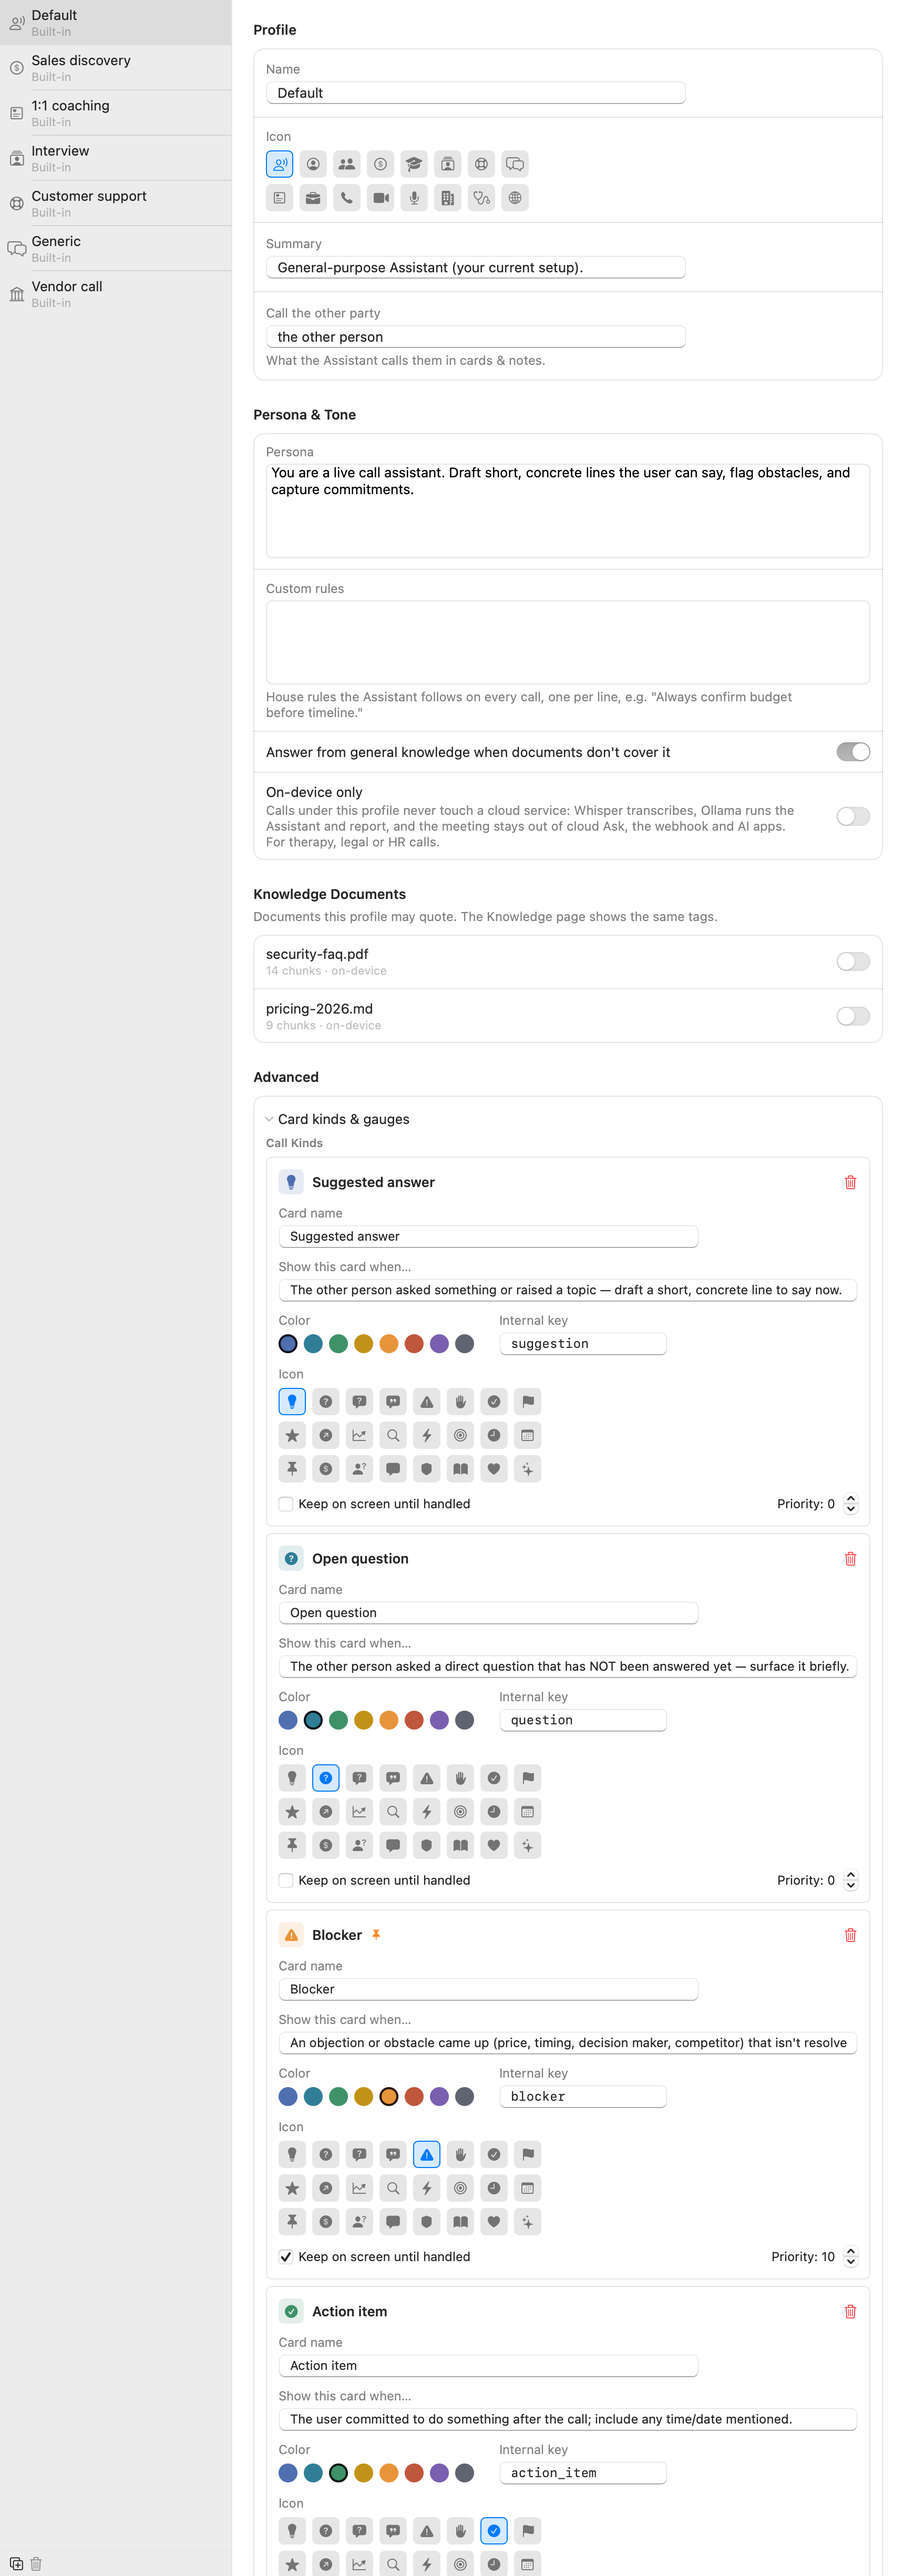
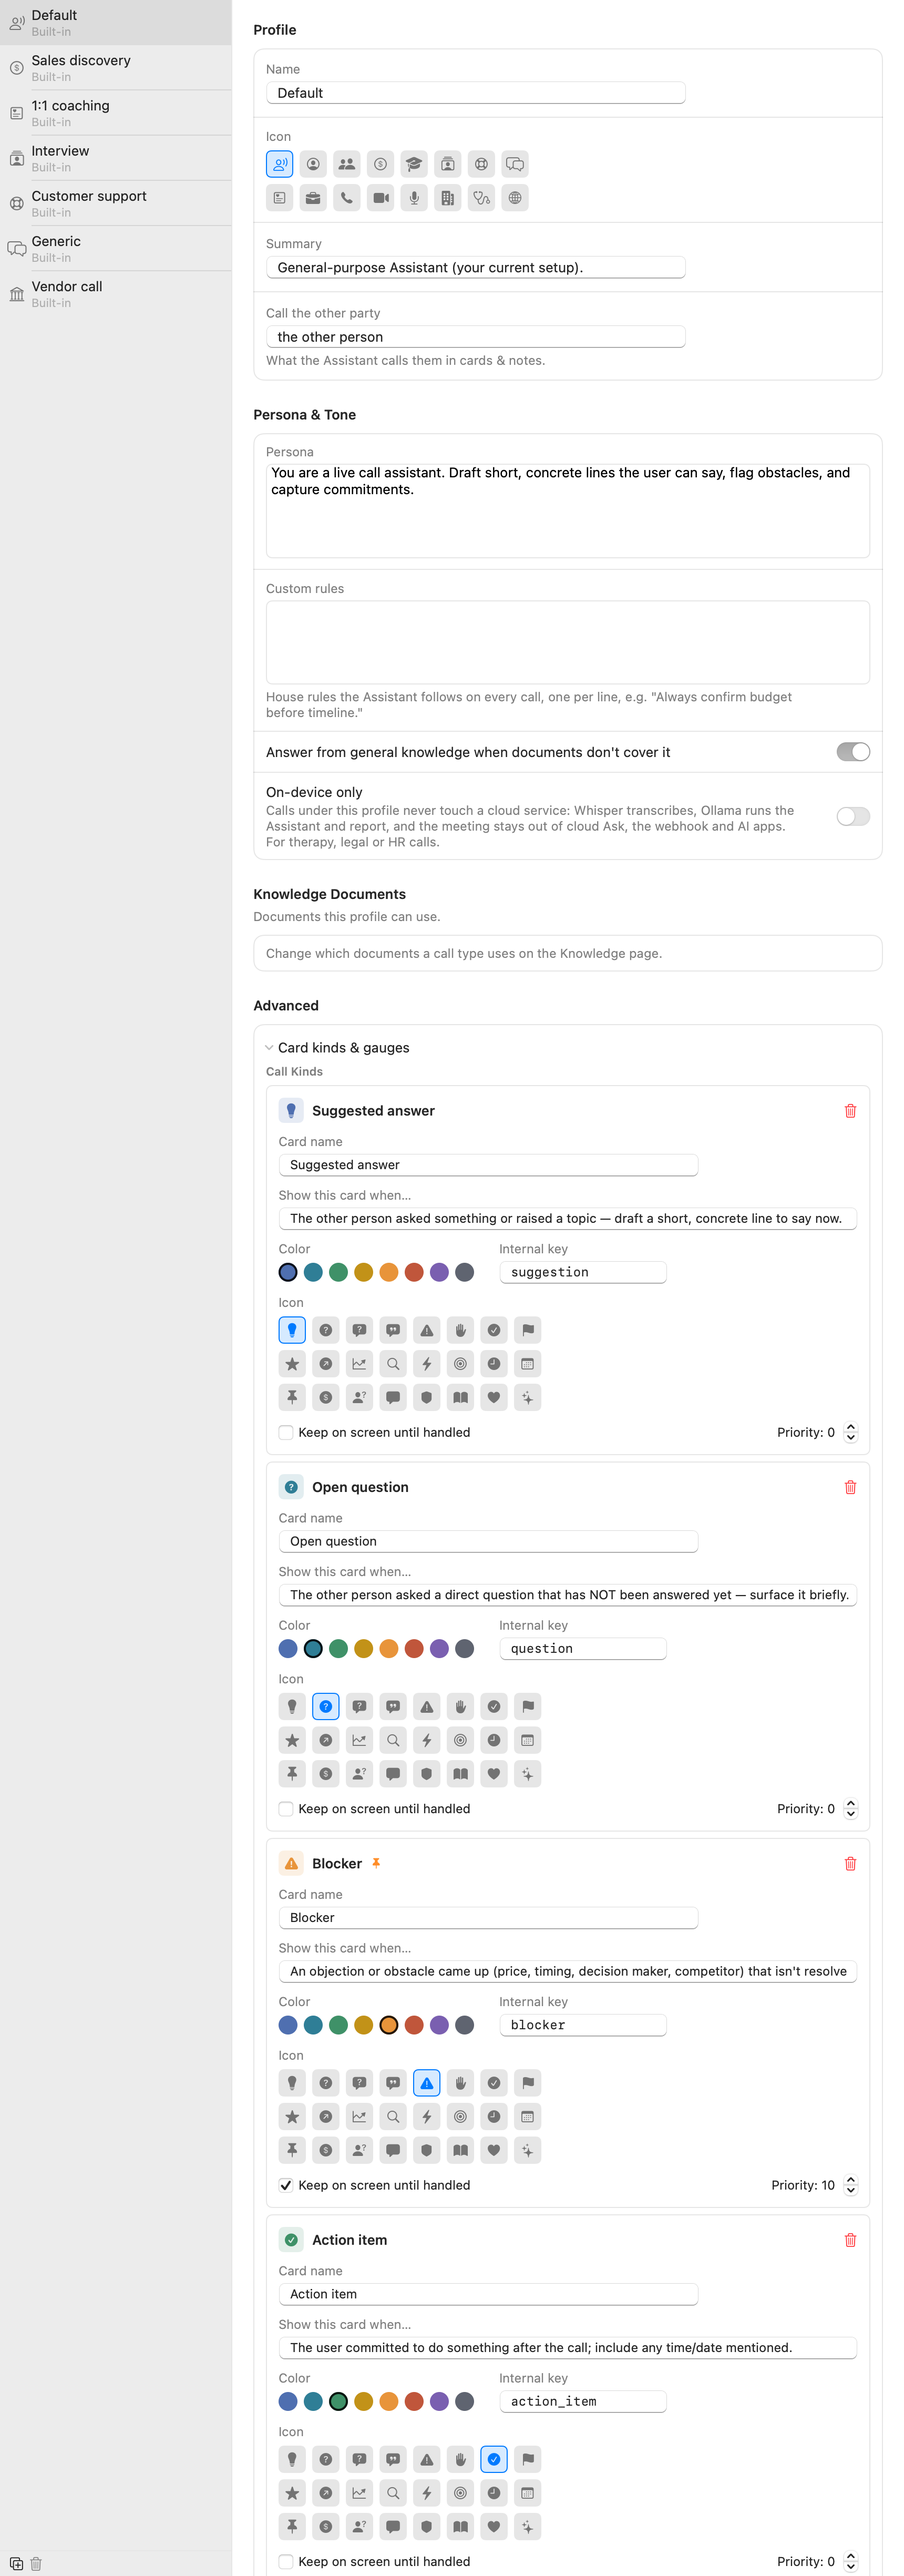
Docs for 0.27.0: knowledge folders, Use for, Not used on calls, about lines

diff --git a/docs/help/knowledge.html b/docs/help/knowledge.html
@@ -3,7 +3,7 @@
 <head>
 <meta charset="utf-8">
 <meta name="viewport" content="width=device-width, initial-scale=1">
-<meta name="keywords" content="knowledge base, documents, faq, pricing, grounded answers, references, upload">
+<meta name="keywords" content="knowledge base, documents, faq, pricing, grounded answers, references, upload, folders, use for, call types, off, paused, not used on calls, about line, search documents, same as folder">
 <title>Knowledge base</title>
 <link rel="canonical" href="https://openparrot.app/help/knowledge.html">
 <!-- The guide's home is openparrot.app/help. GitHub Pages sends visitors there; the in-app copy stays put. -->
@@ -41,10 +41,43 @@ macOS downloads a language model from Apple the first time you add such a
 document. The document works right away, but until the download finishes it
 only matches exact words. Your documents are never uploaded.</p>
 
-<h2>Scoping to profiles</h2>
-<p>Each document can be limited to specific call profiles. Your pricing sheet
-belongs in sales calls; it has no business showing up in a 1:1. By default new
-documents are available everywhere.</p>
+<h2>Folders</h2>
+<p>Group documents the way you think about them: your company basics in one
+folder, everything for one deal in another. Click <strong>New folder</strong>,
+then drag documents onto it, or use a document's <strong>…</strong> menu and
+<strong>Move to folder</strong>. A folder's <strong>…</strong> menu has
+<strong>Rename</strong>, <strong>Add documents here…</strong> and
+<strong>Delete folder…</strong>. Deleting a folder never deletes its documents:
+they move to <strong>No folder</strong> and keep working exactly as before.</p>
+
+<h2>Use for: which calls may use a document</h2>
+<p>Your pricing sheet belongs in sales calls; it has no business showing up in
+a 1:1. Each folder has a <strong>Use for</strong> setting, the pill on its row:
+<strong>All call types</strong>, one or more call types (your
+<a href="profiles.html">profiles</a>), or <strong>Off, not used on calls</strong>
+to pause a whole folder without deleting anything. New folders start at All
+call types, and so does No folder, so a document you just added is used right
+away.</p>
+<p>Documents follow their folder and show <strong>Same as folder</strong>. Give
+one document its own setting from its pill and it shows in blue: it replaces
+the folder's, so a deal folder can be for sales calls while its NDA is only for
+vendor calls.</p>
+<p>A document the Assistant can't use on any call says <strong>Not used on
+calls</strong>. If you see that after updating Parrot, the document had no call
+types picked before, and back then that meant it was never used. Nothing
+changed; it's just visible now. Move it into a folder set to All call types, or
+pick call types on its pill, to switch it on.</p>
+
+<h2>About lines and search</h2>
+<p>Under each document's name is a short line about what's in it, such as
+"Signed NDA, Sept 2026". Click it to type, or choose <strong>Edit about
+line</strong>. You see it in the list, and the Assistant reads it next to every
+passage it quotes from that document. <strong>Search documents</strong> finds
+documents by name or about line, ignoring capitals and accents, so "gorusme"
+finds "Görüşme".</p>
+<p>Two files with the same name can't sit in different folders, because Parrot
+knows documents by file name. Rename one to keep both. Adding a file again into
+its own folder updates it and keeps its about line and Use for.</p>
 
 <div class="tip"><strong>Tip:</strong> you can also tell a profile whether the
 model may use its general knowledge on top of your documents, or answer

diff --git a/docs/help/profiles.html b/docs/help/profiles.html
@@ -59,10 +59,10 @@ Small thing, but cards read much more naturally when it's set.</p>
 </ul>
 
 <h2>Knowledge documents</h2>
-<p>Tick which of your uploaded documents this profile may use. The pricing
-sheet belongs in sales calls and has no business in a 1:1. Documents are
-added on the <a href="knowledge.html">Knowledge page</a> first, then tagged
-here.</p>
+<p>This card lists the documents this profile can use, with the folder each
+one is in. To change it, set <strong>Use for</strong> on the folder or the
+document on the <a href="knowledge.html">Knowledge page</a>: the pricing sheet
+belongs in sales calls and has no business in a 1:1.</p>
 
 <h2>Advanced: the card kinds</h2>
 <p>In the <strong>Advanced</strong> card, click <strong>Card kinds &amp; gauges</strong> at the bottom

diff --git a/docs/help/copilot-setup.html b/docs/help/copilot-setup.html
@@ -54,8 +54,8 @@ documents cover, Parrot shows the matching excerpt as a "From your docs" card,
 usually within a second, while Claude is still writing its answer. Claude's
 card then takes over. Without the key nothing changes. It sends the question,
 a couple of lines of context and the matching snippets of your documents to
-TypeSafe, never audio, and it only works when your documents are tagged into
-the call profile you are using.</p>
+TypeSafe, never audio, and it only looks at documents whose <strong>Use for</strong>
+includes the call profile you are using.</p>
 
 <h2>Different brains for different jobs</h2>
 <p>Live cards need to be quick and sharp. The post-call report has all the

diff --git a/docs/help/settings.html b/docs/help/settings.html
@@ -119,8 +119,9 @@ except to talk to their own service. Paste, done. (A custom server's key sits
 on the Assistant page, next to its address.)</p>
 
 <h2>Knowledge</h2>
-<p>The documents the Assistant may answer from, with per-profile tagging. Full
-story in <a href="knowledge.html">Knowledge base</a>.</p>
+<p>The documents the Assistant may answer from, in folders, each with a
+<strong>Use for</strong> setting and an about line. Full story in
+<a href="knowledge.html">Knowledge base</a>.</p>
 
 <h2>Profiles</h2>
 <p>The deepest page, with its own guide:

diff --git a/README.md b/README.md
@@ -65,7 +65,7 @@ An always-on assistant that watches the conversation and puts the right thing on
 <p align="center"><img src=".github/readme/knowledge.png" alt="Knowledge settings with security-faq.pdf tagged for Sales discovery, and the Assistant answering the SSO question from it" width="560"></p>
 
 - Drop in PDFs, text or Markdown: pricing sheets, FAQs, playbooks. They're chunked and embedded **on your Mac** with Apple's NaturalLanguage framework, plus an exact-word (BM25) index. Nothing is uploaded; only the few passages that match a question go to the AI you picked for the Assistant.
-- Give each document a note ("use for pricing questions") and tag it into the profiles that should use it.
+- Sort documents into **folders** and set **Use for** once per folder: every call type, a few, or Off to pause it. One document can have its own setting, anything the Assistant can't use says so, and a one-line about tells you (and the Assistant) what's inside.
 - **Coaching instructions** for every call ("keep answers short, always offer three price options").
 - Choose whether it may answer from **general knowledge** when your documents don't cover it. Every card says where its answer came from.
 
@@ -84,7 +84,7 @@ Free, no meeting bot, no 30-day limit, and your meetings stay on your Mac until 
 Tell Parrot what kind of call it is, and the profile decides what the Assistant watches for and how the report is written.
 
 - **Seven built-ins:** Default, Sales discovery, 1:1 coaching, Interview, Customer support, Vendor call, Generic. Sales looks for objections and buying signals; Interview for follow-ups and red flags; a 1:1 gets reflections and open questions.
-- **Make your own:** name it, say who the other side is, write a persona and rules, pick its documents, add your own card types (with color, icon, "keep on screen until handled") and gauges.
+- **Make your own:** name it, say who the other side is, write a persona and rules, choose which documents it uses, add your own card types (with color, icon, "keep on screen until handled") and gauges.
 
 ### 🗣 Speaker names: names, not "Speaker 2"
 
